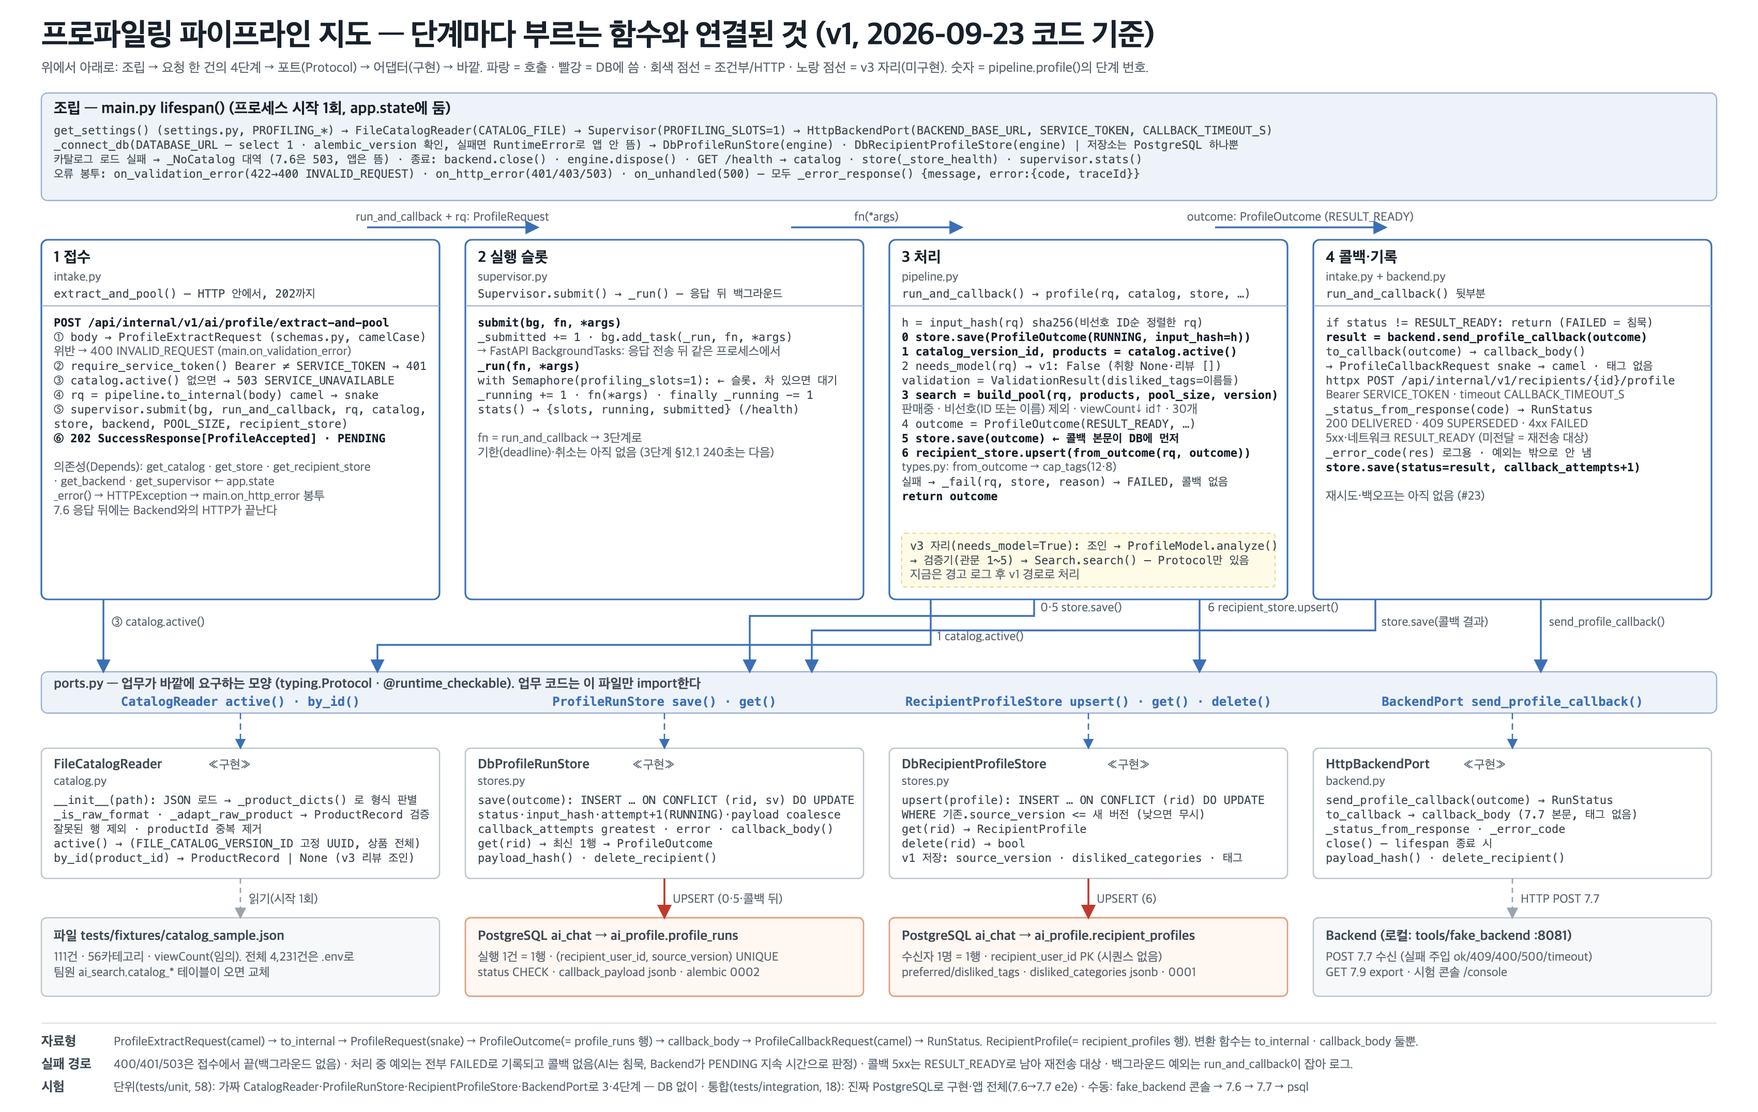
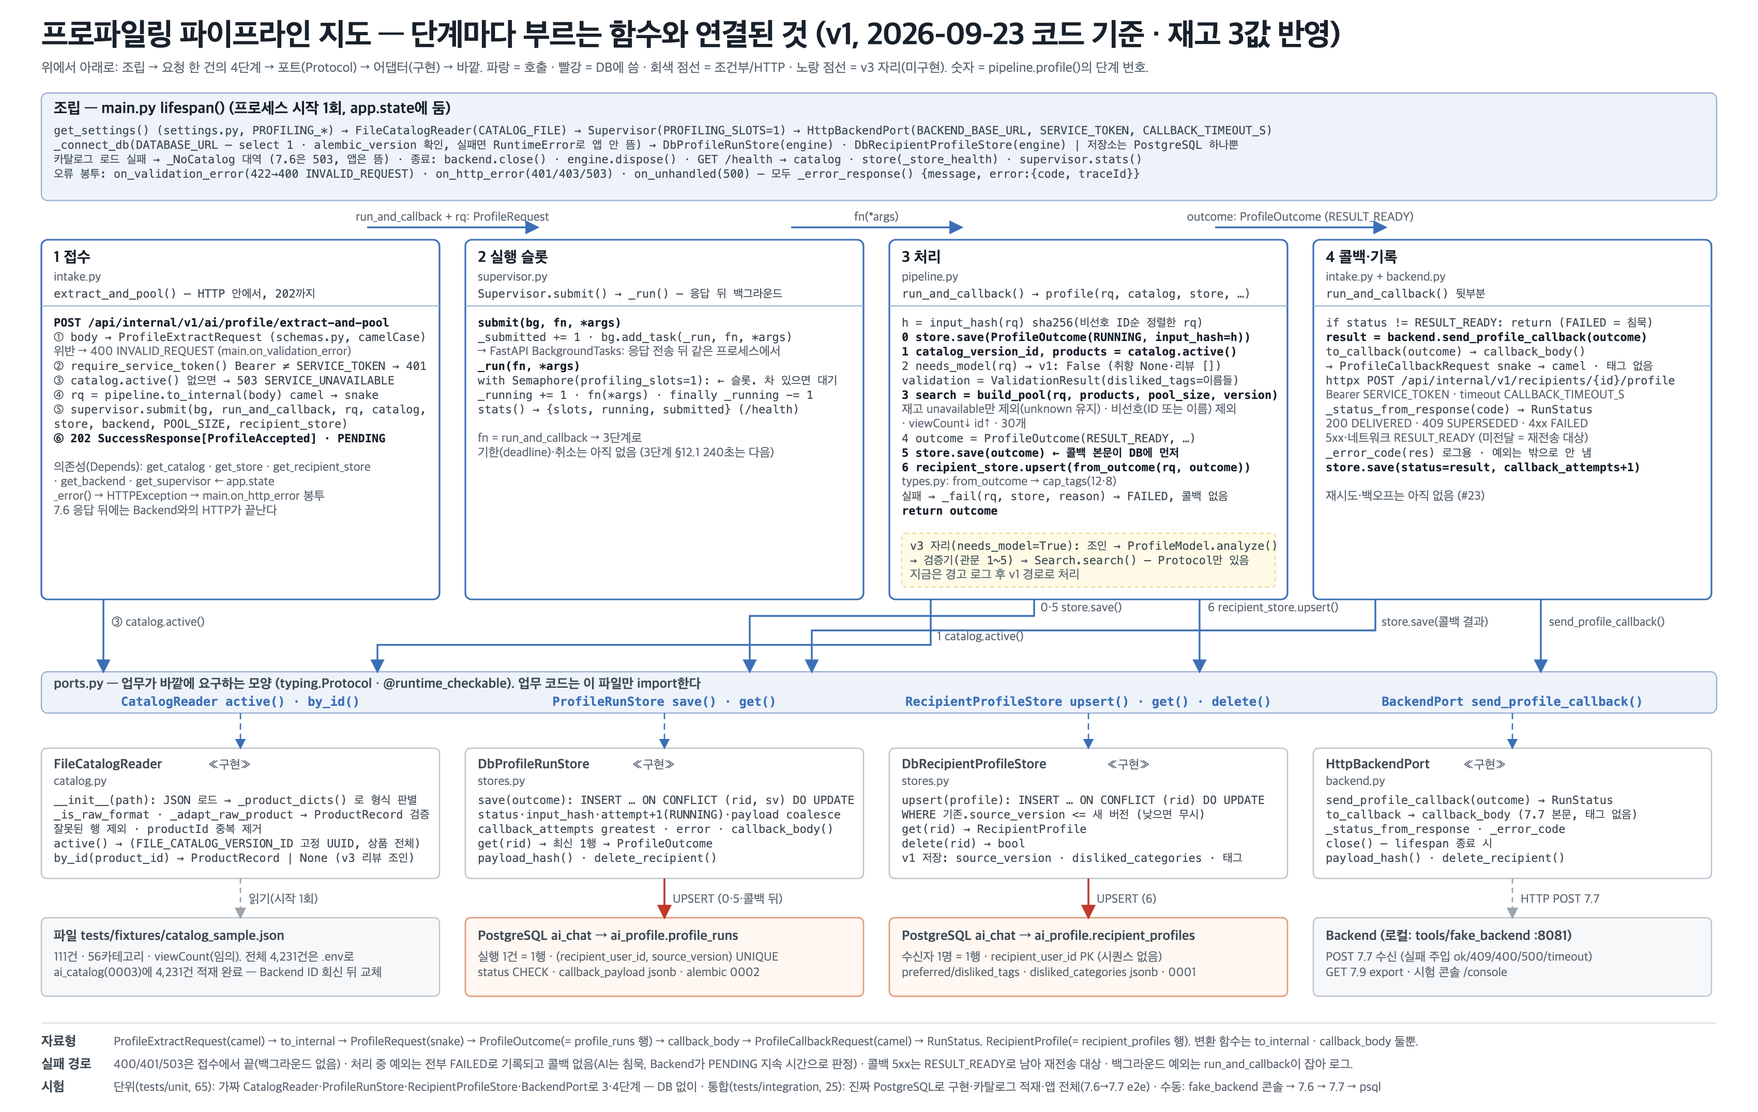
docs(profiling): 파이프라인 지도를 현재 코드에 맞춤 — 어긋난 11곳
지도가 주장하는 값을 전부 실제로 돌려 확인했다. 다섯 가지 확인 포인트는
모두 통과했고(테스트·ruff·공개 표면), 문서에 적힌 숫자와 계획만 옛것이었다.

숫자
  74/58/18 → 88/65/25 passed·skipped (머리표 · §3 확인 포인트 3줄 · 그림 꼬리말)
  기준 커밋 d2c3f41 → 4970014

사실
  §1 바깥: alembic 0001·0002 → 0001·0002(ai_profile) · 0003(ai_catalog 4,231건)
  머리표 저장소: "카탈로그는 아직 파일" → 적재는 끝났고 앱만 파일을 읽는다
  머리표 동작 · 그림 ③: 재고 unavailable 만 제외(unknown 유지)
  §2: 이 판에서 더한 작업 두 줄(시퀀스 문서 6장 · 재고 3값)이 빠져 있었다

다음 할 일
  1  Backend 미팅 결과 반영 → Backend ID 회신 받아 --id-map (재고는 정해졌고 넷이 남아 1′로)
  2  상품 ID 재적재 → 7.9 export 로 재고·조회수 채우기 (경로가 바뀌었다)
  6  09-22 의 "팀원 레이아웃으로 합치기"가 옮겨 적는 과정에서 통째로 빠져 번호가 5→7 이었다. 복원
  8  팀원 ai_search 대기 → 우리 ai_catalog 로 DbCatalogReader
  9  v3 마이그레이션 0003 → 0004 (0003 은 카탈로그가 쓴다)

그림은 build_pipeline_map.py 를 고쳐 다시 그리고 날짜 스냅샷도 갱신했다.
문서 안 상대 링크 전부 존재 확인.

diff --git a/profiling/docs/assets/build_pipeline_map.py b/profiling/docs/assets/build_pipeline_map.py
@@ -43,7 +43,7 @@ def lines(x, y, rows, dy=14):
         t(x, y + i * dy, s, c)
 
 
-t(40, 44, '프로파일링 파이프라인 지도 — 단계마다 부르는 함수와 연결된 것 (v1, 2026-09-23 코드 기준)', 'title')
+t(40, 44, '프로파일링 파이프라인 지도 — 단계마다 부르는 함수와 연결된 것 (v1, 2026-09-23 코드 기준 · 재고 3값 반영)', 'title')
 t(40, 70, '위에서 아래로: 조립 → 요청 한 건의 4단계 → 포트(Protocol) → 어댑터(구현) → 바깥. 파랑 = 호출 · 빨강 = DB에 씀 · 회색 점선 = 조건부/HTTP · 노랑 점선 = v3 자리(미구현). 숫자 = pipeline.profile()의 단계 번호.', 'small')
 
 # ───────────────────── 0. 조립 (main.py lifespan) ─────────────────────
@@ -113,7 +113,8 @@ lines(x + 12, TOP + 84, [
     ('2  needs_model(rq) → v1: False (취향 None·리뷰 [])', 'mono'),
     ('   validation = ValidationResult(disliked_tags=이름들)', 'mono'),
     ('3  search = build_pool(rq, products, pool_size, version)', 'monob'),
-    ('   판매중 · 비선호(ID 또는 이름) 제외 · viewCount↓ id↑ · 30개', 'sub'),
+    ('   재고 unavailable만 제외(unknown 유지) · 비선호(ID 또는 이름) 제외', 'sub'),
+    ('   · viewCount↓ id↑ · 30개', 'sub'),
     ('4  outcome = ProfileOutcome(RESULT_READY, …)', 'mono'),
     ('5  store.save(outcome)      ← 콜백 본문이 DB에 먼저', 'monob'),
     ('6  recipient_store.upsert(from_outcome(rq, outcome))', 'monob'),
@@ -209,7 +210,8 @@ for (name, file, rows), x in zip(adapters, XS):
 EY = AY0 + AH + 38
 EH = 76
 ext = [
-    ('파일  tests/fixtures/catalog_sample.json', ['111건 · 56카테고리 · viewCount(임의). 전체 4,231건은 .env로', '팀원 ai_search.catalog_* 테이블이 오면 교체'], 'ext'),
+    ('파일  tests/fixtures/catalog_sample.json', ['111건 · 56카테고리 · viewCount(임의). 전체 4,231건은 .env로',
+                                                 'ai_catalog(0003)에 4,231건 적재 완료 — Backend ID 회신 뒤 교체'], 'ext'),
     ('PostgreSQL  ai_chat → ai_profile.profile_runs', ['실행 1건 = 1행 · (recipient_user_id, source_version) UNIQUE', 'status CHECK · callback_payload jsonb · alembic 0002'], 'db'),
     ('PostgreSQL  ai_chat → ai_profile.recipient_profiles', ['수신자 1명 = 1행 · recipient_user_id PK (시퀀스 없음)', 'preferred/disliked_tags · disliked_categories jsonb · 0001'], 'db'),
     ('Backend  (로컬: tools/fake_backend  :8081)', ['POST 7.7 수신 (실패 주입 ok/409/400/500/timeout)', 'GET 7.9 export · 시험 콘솔 /console'], 'ext'),
@@ -232,7 +234,7 @@ t(110, NY + 22, 'ProfileExtractRequest(camel) → to_internal → ProfileRequest
 t(40, NY + 44, '실패 경로', 'h2')
 t(110, NY + 44, '400/401/503은 접수에서 끝(백그라운드 없음) · 처리 중 예외는 전부 FAILED로 기록되고 콜백 없음(AI는 침묵, Backend가 PENDING 지속 시간으로 판정) · 콜백 5xx는 RESULT_READY로 남아 재전송 대상 · 백그라운드 예외는 run_and_callback이 잡아 로그.', 'sub')
 t(40, NY + 66, '시험', 'h2')
-t(110, NY + 66, '단위(tests/unit, 58): 가짜 CatalogReader·ProfileRunStore·RecipientProfileStore·BackendPort로 3·4단계 — DB 없이   ·   통합(tests/integration, 18): 진짜 PostgreSQL로 구현·앱 전체(7.6→7.7 e2e)   ·   수동: fake_backend 콘솔 → 7.6 → 7.7 → psql', 'sub')
+t(110, NY + 66, '단위(tests/unit, 65): 가짜 CatalogReader·ProfileRunStore·RecipientProfileStore·BackendPort로 3·4단계 — DB 없이   ·   통합(tests/integration, 25): 진짜 PostgreSQL로 구현·카탈로그 적재·앱 전체(7.6→7.7 e2e)   ·   수동: fake_backend 콘솔 → 7.6 → 7.7 → psql', 'sub')
 parts.append('</svg>')
 (P / 'pipeline-map.svg').write_text('\n'.join(parts) + '\n', encoding='utf-8')
 print('svg ok')

diff --git a/profiling/docs/파이프라인_지도/2026-09-23.md b/profiling/docs/파이프라인_지도/2026-09-23.md
@@ -2,11 +2,11 @@
 
 | | |
 |---|---|
-| 기준 코드 | 브랜치 `integration/v1-profiling-search` · 커밋 `d2c3f41`(평탄화) + 저장소 DB 전용화 |
+| 기준 코드 | 브랜치 `integration/v1-profiling-search` · 커밋 `4970014`(평탄화 → DB 전용화 → 카탈로그 DB 적재 → 시퀀스 문서 → 재고 3값) |
 | 범위 | **v1** — 비선호 카테고리만 반영. 취향 문장·리뷰를 읽는 모델·검증기는 v3 |
-| 동작 | 7.6 접수 → 202 → 백그라운드 → 비선호 제외·조회수순 30개 → 7.7 콜백 → 결과를 DB에 기록. **09-22와 같음 — 동작은 하나도 안 바뀌었다** |
-| 저장소 | PostgreSQL **하나뿐** — `ai_profile.profile_runs` · `ai_profile.recipient_profiles`. 메모리 구현과 `PROFILING_STORE` 설정은 제거했다. 카탈로그는 아직 파일 |
-| 테스트 | `uv run pytest -q` → **74 passed, 2 skipped**(v3 stub). 단위 58(DB 없이) · 통합 18(진짜 PostgreSQL, 없으면 skip) |
+| 동작 | 7.6 접수 → 202 → 백그라운드 → 재고 없음(`unavailable`)·비선호 제외 → 조회수순 30개 → 7.7 콜백 → 결과를 DB에 기록. 09-22에서 바뀐 동작은 **재고 필터 한 줄뿐**이다 |
+| 저장소 | PostgreSQL **하나뿐** — `ai_profile.profile_runs` · `ai_profile.recipient_profiles`. 메모리 구현과 `PROFILING_STORE` 설정은 제거했다. 카탈로그는 `ai_catalog`에 **적재까지 끝냈고**(4,231건) 앱은 아직 파일을 읽는다 — 교체는 Backend ID 회신 뒤(§5 8번) |
+| 테스트 | `uv run pytest -q` → **88 passed, 2 skipped**(v3 stub). 단위 65(DB 없이) · 통합 25(진짜 PostgreSQL, 없으면 skip) |
 | 지난 판 | [2026-09-22.md](2026-09-22.md) |
 
 ![파이프라인 지도 2026-09-23](assets/pipeline-map_2026-09-23.png)
@@ -34,7 +34,7 @@
 | 구현(어댑터) | `catalog.py` · `stores.py` · `backend.py` | `FileCatalogReader` / `DbProfileRunStore`·`DbRecipientProfileStore` / `HttpBackendPort` — 저장소는 PostgreSQL뿐 |
 | 자료형 | `types.py` · `schemas.py` | `schemas.py` = 바깥 계약(camelCase, 7.6·7.7·7.9), `types.py` = 내부(snake_case) + `RecipientProfile` 행과 갱신 규칙(`from_outcome`·`should_replace`·`cap_tags`) |
 | 공개 표면 | `__init__.py` | `profile` · `ProfileRequest` · `ProfileOutcome` · `RunStatus` · `ErrorCode` · `Settings` · `get_settings` — 다른 모듈은 이것만 쓰면 된다 |
-| 바깥 | | `tests/fixtures/catalog_sample.json`(111건) · PostgreSQL `ai_chat`(alembic 0001·0002) · Backend — 로컬은 `tools/fake_backend`(:8081) |
+| 바깥 | | `tests/fixtures/catalog_sample.json`(111건) · PostgreSQL `ai_chat`(alembic 0001·0002 `ai_profile` · 0003 `ai_catalog` 4,231건) · Backend — 로컬은 `tools/fake_backend`(:8081) |
 
 ## 2. 지난 판(09-22)에서 바뀐 것
 
@@ -47,6 +47,8 @@
 | `recipient_store`가 `None`일 수 있던 경로 제거 | 메모리 모드 때문에 있던 분기. 프로필 저장을 조용히 건너뛸 수 있었다 | `pipeline.profile()` · `intake.get_recipient_store()` |
 | 앱을 띄우는 시험을 통합으로 이동 | 앱 lifespan이 DB에 붙으므로 더는 단위가 아니다 | `tests/unit/test_e2e_transport.py` → `tests/integration/test_e2e_app.py`, `test_catalog_fixture.py`의 `/health` 시험도 같이 |
 | **상품 카탈로그 DB 적재** — 마이그레이션 `0003`(`ai_catalog.categories`·`products`·`catalog_versions`) + `tools/catalog/load_catalog.py`. Backend 전달 패키지 `product-catalog-20260922-v1`의 상품 4,231건·대분류 10·소분류 57을 넣었다 | 파일 카탈로그를 DB로 옮기는 첫 단계. 그리고 Backend ID 회신을 받을 자리(`backend_product_id`·`backend_category_id`)가 필요했다 | `alembic/versions/0003_catalog.py` · `tools/catalog/load_catalog.py` · `tests/{unit/test_load_catalog,integration/test_db_catalog}.py` |
+| **구현 전체 시퀀스 문서** — 기동 · 성공 전체 · 접수 거절 · 분석 실패(침묵) · 콜백 4갈래 · 슬롯, mermaid 6장 | 계약(BE 연동 필드표)과 별개로 *우리 쪽 내부 순서*를 남길 곳이 없었다 | `docs/시퀀스_전체.md` · `docs/assets/seq/` · `docs/assets/build_be_sequences.py`(대상 문서 목록을 `targets()`로) |
+| **재고를 3값으로** — `available`(있음) · `unavailable`(없음) · `unknown`(정보 없음). 추천 풀은 `unavailable`만 제외 | 09-23 Backend 합의. 검색기와 같은 형이고, 실제 재고를 아는 Backend가 최종 판단한다. 패키지 적재분은 전건 `unknown`이라 이 규칙이 아니면 풀이 0건 | `schemas.py`(`Availability`·변환 검증기) · `pipeline.build_pool()` · `catalog.py` · `0003_catalog.py`(`availability TEXT` + CHECK) · `load_catalog.py` · `fetch_export.py` |
 | 빈 `catalog/` 패키지 삭제 | `.gitkeep`과 빈 `__init__.py`뿐이었음 | — |
 | v3 포트 선언 2개 제거 | v1에서 아무도 안 씀. v3에 들어올 때 추가 | `ports.py` |
 | `__init__.py`를 공개 표면으로 | 팀원 `search/__init__.py`와 같은 방식 | `__init__.py` |
@@ -86,9 +88,9 @@ uv run uvicorn profiling.main:app --port 8000 --reload
 
 브라우저 `http://localhost:8081/` → 7.6 보내기 탭에서 비선호 하나 고르고 전송. 확인 포인트는 [09-22 §3](2026-09-22.md)과 **같다**. 이 판에서 더 볼 것:
 
-- `uv run pytest -q` → **74 passed, 2 skipped**
-- 단위가 정말 DB 없이 도는지: `PROFILING_DATABASE_URL="postgresql+psycopg://x:x@127.0.0.1:1/none" uv run pytest tests/unit -q` → 56 passed, 2 skipped
-- 통합이 DB 없으면 건너뛰는지: 같은 환경변수로 `uv run pytest tests/integration -q` → 18 skipped
+- `uv run pytest -q` → **88 passed, 2 skipped**
+- 단위가 정말 DB 없이 도는지: `PROFILING_DATABASE_URL="postgresql+psycopg://x:x@127.0.0.1:1/none" uv run pytest tests/unit -q` → 63 passed, 2 skipped
+- 통합이 DB 없으면 건너뛰는지: 같은 환경변수로 `uv run pytest tests/integration -q` → 25 skipped
 - `uv run python -c "import profiling; print(profiling.__all__)"` → 공개 표면 7개
 - `uv run ruff check src tests tools alembic` → `All checks passed!` (C408 지적은 목 코드와 함께 사라졌다)
 
@@ -112,17 +114,19 @@ uv run uvicorn profiling.main:app --port 8000 --reload
 
 | # | 무엇 | 왜 | 어디 (파일 · 함수) | 끝났다고 보는 기준 | 크기 |
 |---|---|---|---|---|---|
-| 1 | **Backend 미팅 결과 반영** — 7.7 태그, 7.9 조회수 필드명, 제외→감점이면 정렬키 `(비선호 여부, -조회수, id)`, 비선호 ≤5 잠금 | 미결 4개가 정해져야 실제 Backend와 붙음 | `schemas.py`(`ProfileCallbackRequest`·`ProductRecord.viewCount`·`dislikedCategories max_length`) · `pipeline.build_pool()` · `tools/fake_backend` | 콘솔 7.6 → 7.7 정상, `uv run pytest -q` 전부 통과, `이름_대조표.md` 갱신 | 각 한 줄 |
-| 2 | **상품 ID를 Backend 기준으로 재적재** | 7.7로 보내는 30개가 Backend에 없는 번호면 화면에 아무것도 안 뜬다. 지금은 우리도 팀원도 수집처 ID를 쓰는 중 | Backend 상품 목록(파일 또는 7.9) → `tools/catalog/fetch_export.py --compare-db` → `catalog.py` 재적재 · 팀원 쪽 `workbench/dylan/schema.sql`(TEXT→BIGINT)·`product-search/search/models.py`(`list[str]`→`list[int]`)·`tools/prepare_catalog.py` | `fetch_export.py --compare-db`가 "AI에만 있는 ID 0건" | 반나절 (Backend 목록 필요) |
+| 1 | **Backend ID 회신 반영** — Backend가 DB 적재를 끝내고 매핑을 알려주면 `product-id-map.jsonl`·`category-id-map.jsonl`을 받아 채운다 | 7.7로 보내는 30개가 Backend에 없는 번호면 화면에 아무것도 안 뜬다. 지금 `backend_product_id`는 0/4,231 | `uv run python -m tools.catalog.load_catalog --id-map … --category-id-map …` | 적재 CLI 보고에서 `Backend ID 상품 4231/4231`, 경고 문구가 사라짐 | 한 시간 (Backend 회신 필요) |
+| 1′ | **남은 Backend 미결 정리** — 7.7 태그, 7.9 조회수 필드명·정렬 기준, 제외 vs 감점, 비선호 ≤5 잠금 | 재고는 09-23에 정해졌고(3값) 이 넷이 남았다 | `schemas.py`(`ProfileCallbackRequest`·`ProductRecord.viewCount`·`dislikedCategories max_length`) · `pipeline.build_pool()` · `tools/fake_backend` | 콘솔 7.6 → 7.7 정상, `uv run pytest -q` 전부 통과, `이름_대조표.md` 갱신 | 각 한 줄 |
+| 2 | **7.9 export로 재고·조회수 채우기** | 패키지에는 재고 정보도 조회수도 없다 — 지금 `availability`는 4,231건 전부 `unknown`, `view_count`는 NULL. Backend export가 와야 풀 정렬이 의미를 갖는다 | `tools/catalog/fetch_export.py` → `ai_catalog.products` 갱신 경로 추가 · Backend에 "재고를 모르는 상품은 `available`을 빼거나 `null`로" 전달 | 적재 CLI 보고에서 `availability` 확인 건수 > 0, `view_count` 있음 > 0 | 반나절 (Backend export 필요) |
 | 3 | **실제 Backend와 첫 연동** | 로컬 fake만 통과한 상태 | `.env`의 `PROFILING_BACKEND_BASE_URL`·`SERVICE_TOKEN` · Backend의 7.6 호출 시점(디바운스)·7.7 수신 확인 | Backend 서버로 7.7이 200 오고 `profile_runs.status=DELIVERED` | 반나절, Backend와 같이 |
 | 4 | **접수 단계 중복 판정** | 설계 §10.2: 같은 (수신자, 버전)이 RUNNING이면 새 분석 없음, 결과 있으면 재전송만. 지금은 다시 돌림(`attempt+1`) | `intake.extract_and_pool()` 앞부분 — `store.get()`으로 상태 보고 분기. 필요하면 `ProfileRunStore.get_run(rid, sv)` 추가 | 단위: 같은 요청 두 번 → `profile()` 한 번만. 통합: `attempt`가 1 유지 | 반나절 |
 | 5 | **배포 구성** — AI 앱 컨테이너를 compose에, 환경변수·서비스 토큰·이미지 빌드 | 09/30 배포 | `docker-compose.yml`에 `ai-app` · `Dockerfile` 신설 · `alembic upgrade head`를 시작 명령에 | `docker compose up` 한 번으로 DB+앱이 뜨고 `/health`가 `connected: true` | 반나절 |
+| 6 | 팀원 레이아웃으로 합치기 (uv 단일 pyproject, 루트 `app/`) | 09-21 보류 결정. 배포 전 필요 | `src/profiling/*` → `app/profiling/*` · `pyproject.toml` 통합 · import 경로 · CI | `uv run pytest -q`가 합친 트리에서 그대로 통과 | 반나절 |
 | 7 | 콜백 재시도(5xx 최대 3회)·재시작 복구(RUNNING→FAILED 정리) | 설계 §10.2. 지금은 1회 전송, 5xx면 RESULT_READY로 남기만 함 | `backend.send_profile_callback()` 안 재시도 · `main.lifespan` 시작 시 RUNNING 행 정리 | `test_backend.py`에 5xx 3회 후 종료 케이스 · 통합: 시작 시 RUNNING 행이 FAILED로 | 반나절 |
-| 8 | 팀원 카탈로그 DB로 교체 | 지금은 파일. 팀원 `ai_search.*`가 생기면 | `catalog.py`에 DB 구현 추가(`CatalogReader`) · `main.lifespan` 한 줄 | `catalog.active()`가 DB 활성 버전을 돌려주고 e2e 통과 | 반나절 |
-| 9 | v3 — 마이그레이션 0003 · 검증기 이식(실험 `2_validate.py`) · `ProfileModel` 구현(규칙 추출기 1안, Ollama 2안) · Search 호출 | 취향·리뷰 반영 | `alembic/versions/0003_*.py` · `pipeline.profile()` 2단계 · `model.py` 신설 · `ports.py`에 `ProfileModel`·`Embedder` 다시 추가 · `types.merge_explicit_dislikes`·`to_search_hint` | 실험 하네스와 같은 결과(Recall@30 71) · skip 3개 해제 | 여러 날 |
+| 8 | **카탈로그를 파일 → `ai_catalog` DB로 교체** | 표와 4,231건은 이미 있다. Backend ID가 채워지기 전에 바꾸면 7.7로 내보낼 번호가 없으므로 1번 다음이다 | `catalog.py`에 `DbCatalogReader` 추가(`CatalogReader` 모양 그대로) · `main.lifespan` 한 줄 교체 | `catalog.active()`가 `catalog_versions`의 활성 UUID와 상품을 돌려주고 통합 e2e 통과 | 반나절 |
+| 9 | v3 — 마이그레이션 0004 · 검증기 이식(실험 `2_validate.py`) · `ProfileModel` 구현(규칙 추출기 1안, Ollama 2안) · Search 호출 | 취향·리뷰 반영 | `alembic/versions/0004_*.py`(0003은 카탈로그가 씀) · `pipeline.profile()` 2단계 · `model.py` 신설 · `ports.py`에 `ProfileModel`·`Embedder` 다시 추가 · `types.merge_explicit_dislikes`·`to_search_hint` | 실험 하네스와 같은 결과(Recall@30 71) · skip 3개 해제 | 여러 날 |
 | 10 | 독스트링의 설계 근거를 `docs/`로 이관 | 코드의 27%가 설명문(팀원 코드는 1%). 읽는 사람은 `코드_안내서.md`를 보면 됨 | `ports.py`·`stores.py`·`pipeline.py`의 문단형 독스트링 → 한 줄로, 내용은 `docs/코드_안내서.md` | 코드 줄 수 대비 주석 비율 10% 이하, 문서에서 같은 내용이 검색됨 | 반나절 |
 | 11 | 동시성 — Supervisor 세마포어가 anyio 스레드풀을 붙잡는 문제 | 동시 100건은 통과했으나(0.64초) 슬롯 대기 중 스레드를 점유. 전용 워커 스레드+큐 / 비동기 의존성 / 큐 상한+503 3안 | `supervisor.py` · `intake.py` | 동시 100건에서 `/health` p50이 부하 없을 때와 같음 | 반나절 |
 
-막히면 볼 것: [README.md](../../README.md)(구조·실행·테스트) · [코드_안내서.md](../코드_안내서.md)(파일·함수별 역할) · [DB_전환_설명.md](../DB_전환_설명.md)(테이블·저장 시점) · [이름_대조표.md](../../이름_대조표.md)(같은 뜻 다른 이름) · [BE_연동_필드표.md](../BE_연동_필드표.md)(BE 전달본) · 설계 근거는 `KTB4_12team/AI/latest/01_모델_API_설계/담당파트_상세설계서_7.6_7.9.md`와 위키 `서비스-아키텍처-구현-상세` §10·§16.
+막히면 볼 것: [README.md](../../README.md)(구조·실행·테스트) · [코드_안내서.md](../코드_안내서.md)(파일·함수별 역할) · [DB_전환_설명.md](../DB_전환_설명.md)(테이블·저장 시점) · [이름_대조표.md](../../이름_대조표.md)(같은 뜻 다른 이름) · [BE_연동_필드표.md](../BE_연동_필드표.md)(BE 전달본) · [시퀀스_전체.md](../시퀀스_전체.md)(구현 전체 순서 6장) · 설계 근거는 `KTB4_12team/AI/latest/01_모델_API_설계/담당파트_상세설계서_7.6_7.9.md`와 위키 `서비스-아키텍처-구현-상세` §10·§16.
 
 연락 없이 이어받을 때의 첫 30분: 위 §3을 그대로 실행해 콘솔에서 30개가 오는지 확인 → `uv run pytest -q` → §5의 1번부터.

diff --git a/profiling/docs/파이프라인_지도/README.md b/profiling/docs/파이프라인_지도/README.md
@@ -6,7 +6,7 @@
 
 | 날짜 | 문서 | 한 줄 요약 | 다음 할 일 1순위 |
 |---|---|---|---|
-| 2026-09-23 | [2026-09-23.md](2026-09-23.md) | 패키지 평탄화(6폴더 13모듈 → 1폴더 11모듈) + 저장소를 PostgreSQL 전용으로 (메모리 구현·`PROFILING_STORE` 제거) | Backend 미팅 결과 반영 → 상품 ID를 Backend 기준으로 재적재 |
+| 2026-09-23 | [2026-09-23.md](2026-09-23.md) | 패키지 평탄화(6폴더 13모듈 → 1폴더 11모듈) + 저장소 PostgreSQL 전용 + 상품 카탈로그 DB 적재(4,231건) + 구현 전체 시퀀스 6장 + 재고 3값 | Backend ID 회신 받아 `--id-map` → 7.9 export로 재고·조회수 채우기 |
 | 2026-09-22 | [2026-09-22.md](2026-09-22.md) | v1 끝까지 동작 + 저장소를 PostgreSQL 두 테이블로 전환 | Backend 미팅 결과(7.7 태그 · 7.9 조회수 필드명 · 제외 vs 감점 · 디바운스) 코드 반영 |
 
 ## 규칙
